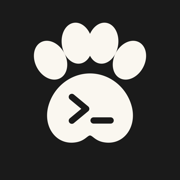
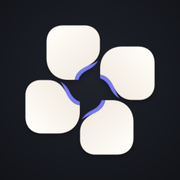
feat: adopt the Step Mosaic brand mark

Changed region(s): [[0.1389, 0.1111, 0.8611, 0.8611]]

diff --git a/test/smoke.test.js b/test/smoke.test.js
@@ -55,17 +55,26 @@ test("service worker keeps local Mermaid offline and never intercepts API or rel
   assert.match(release, /subject-path:/);
 });
 
-test("Stepsemble ships its own cat-paw agent mark", () => {
+test("Stepsemble ships its own equal-participation Step Mosaic", () => {
   const html = fs.readFileSync(path.join(root, "public", "index.html"), "utf8");
   const logo = fs.readFileSync(path.join(root, "public", "stepsemble-logo.svg"), "utf8");
   const appIcon = fs.readFileSync(path.join(root, "public", "stepsemble-app-icon.svg"), "utf8");
+  const icon180 = fs.readFileSync(path.join(root, "public", "icon-180.png"));
+  const icon512 = fs.readFileSync(path.join(root, "public", "icon-512.png"));
   assert.match(html, /class="login-mark brand-mark"/);
   assert.doesNotMatch(html, /official-mark/);
-  assert.match(logo, /four-node cat paw/);
-  assert.match(appIcon, /four-node cat paw/);
-  assert.match(logo, /terminal prompt/);
-  assert.match(logo, /#1A1A1A/);
-  assert.match(logo, /#FAF7F0/);
+  assert.match(logo, /Four equal agent modules/);
+  assert.match(appIcon, /Four equal agent modules/);
+  assert.match(logo, /coordination layer/);
+  assert.match(logo, /#8588FF/);
+  assert.match(logo, /#FFFDF8/);
+  assert.equal((logo.match(/href="#agent-module"/g) || []).length, 4);
+  assert.equal((appIcon.match(/href="#agent-module"/g) || []).length, 4);
+  assert.doesNotMatch(logo, /cat paw|terminal prompt|#FF6B5F/i);
+  assert.deepEqual([icon180.readUInt32BE(16), icon180.readUInt32BE(20)], [180, 180]);
+  assert.deepEqual([icon512.readUInt32BE(16), icon512.readUInt32BE(20)], [512, 512]);
+  assert.equal(icon180[25], 2, "Apple touch artwork should be opaque RGB");
+  assert.equal(icon512[25], 2, "maskable PWA artwork should be opaque RGB");
 });
 
 test("the in-app brand mark follows the active theme colour without a plate", () => {

diff --git a/public/index.html b/public/index.html
@@ -6,10 +6,10 @@
 <title>Stepsemble</title>
 <meta name="theme-color" content="#FAF7F0" media="(prefers-color-scheme: light)">
 <meta name="theme-color" content="#121212" media="(prefers-color-scheme: dark)">
-<link rel="manifest" href="/manifest.webmanifest?v=3.0.0">
-<link rel="icon" href="/stepsemble-logo.svg?v=3.0.0" type="image/svg+xml">
-<link rel="apple-touch-icon" href="/icon-180.png?v=3.0.0">
-<link rel="stylesheet" href="/style.css?v=3.0.0">
+<link rel="manifest" href="/manifest.webmanifest?v=3.0.1">
+<link rel="icon" href="/stepsemble-logo.svg?v=3.0.1" type="image/svg+xml">
+<link rel="apple-touch-icon" href="/icon-180.png?v=3.0.1">
+<link rel="stylesheet" href="/style.css?v=3.0.1">
 </head>
 <body>
 
@@ -406,7 +406,7 @@
         </div>
         <div class="settings-row">
           <span><strong>Stepsemble</strong><small>Mobile-first remote workspace for Pi</small></span>
-          <span class="settings-value" id="set-app-version">v3.0.0</span>
+          <span class="settings-value" id="set-app-version">v3.0.1</span>
         </div>
         <div class="settings-row">
           <span><strong>Pi version</strong><small>Pi coding agent installed on this device</small></span>
@@ -866,10 +866,10 @@
 
 <script src="/vendor/marked.min.js"></script>
 <script src="/vendor/purify.min.js"></script>
-<script src="/i18n.js?v=3.0.0"></script>
-<script src="/modules/app-foundation.js?v=3.0.0"></script>
-<script src="/modules/session-utils.js?v=3.0.0"></script>
-<script src="/modules/context-usage.js?v=3.0.0"></script>
-<script src="/app.js?v=3.0.0"></script>
+<script src="/i18n.js?v=3.0.1"></script>
+<script src="/modules/app-foundation.js?v=3.0.1"></script>
+<script src="/modules/session-utils.js?v=3.0.1"></script>
+<script src="/modules/context-usage.js?v=3.0.1"></script>
+<script src="/app.js?v=3.0.1"></script>
 </body>
 </html>

diff --git a/public/sw.js b/public/sw.js
@@ -1,18 +1,18 @@
-const CACHE_NAME = "stepsemble-shell-v3.0.0";
+const CACHE_NAME = "stepsemble-shell-v3.0.1";
 const SHELL = [
   "/",
   "/index.html",
-  "/style.css?v=3.0.0",
-  "/i18n.js?v=3.0.0",
-  "/modules/app-foundation.js?v=3.0.0",
-  "/modules/session-utils.js?v=3.0.0",
-  "/modules/context-usage.js?v=3.0.0",
-  "/app.js?v=3.0.0",
-  "/manifest.webmanifest?v=3.0.0",
-  "/stepsemble-logo.svg?v=3.0.0",
+  "/style.css?v=3.0.1",
+  "/i18n.js?v=3.0.1",
+  "/modules/app-foundation.js?v=3.0.1",
+  "/modules/session-utils.js?v=3.0.1",
+  "/modules/context-usage.js?v=3.0.1",
+  "/app.js?v=3.0.1",
+  "/manifest.webmanifest?v=3.0.1",
+  "/stepsemble-logo.svg?v=3.0.1",
   "/stepsemble-glyph.svg",
-  "/icon-180.png?v=3.0.0",
-  "/icon-512.png?v=3.0.0",
+  "/icon-180.png?v=3.0.1",
+  "/icon-512.png?v=3.0.1",
   "/vendor/marked.min.js",
   "/vendor/purify.min.js",
   "/vendor/mermaid.min.js",

diff --git a/public/app.js b/public/app.js
@@ -1,7 +1,7 @@
-/* stepsemble v3.0.0 — project changes, resilient drafts, and mobile polish */
+/* stepsemble v3.0.1 — project changes, resilient drafts, and mobile polish */
 "use strict";
 
-const CLIENT_APP_VERSION = "3.0.0";
+const CLIENT_APP_VERSION = "3.0.1";
 
 // The browser remains buildless, but feature-independent foundations live in
 // small files loaded before this controller. This keeps deployment as simple

diff --git a/server.js b/server.js
@@ -56,7 +56,7 @@ const {
 // 配置
 // ---------------------------------------------------------------------------
 
-const APP_VERSION = "3.0.0";
+const APP_VERSION = "3.0.1";
 const PUBLIC_DIR = path.join(__dirname, "public");
 function expandHome(value) {
   if (!value) return value;

diff --git a/public/style.css b/public/style.css
@@ -1,4 +1,4 @@
-/* stepsemble v3.0.0 — Ink & Ivory / English-first localization */
+/* stepsemble v3.0.1 — Ink & Ivory / English-first localization */
 
 :root {
   --paper: #FAF7F0;

diff --git a/CHANGELOG.md b/CHANGELOG.md
@@ -1,5 +1,14 @@
 # Changelog
 
+## 3.0.1
+
+- Replaced the literal cat-paw-and-terminal mark with a vendor-neutral Step
+  Mosaic: four equal agent modules move in one rhythm, and each reveals the
+  same violet Stepsemble coordination layer.
+- Added matched full-colour app, rounded logo, monochrome mask, Apple touch,
+  and maskable PWA artwork without assigning any provider a privileged brand
+  colour.
+
 ## 3.0.0
 
 - Renamed Pi Harbor to Stepsemble, with a new cat-paw-and-terminal identity

diff --git a/README.md b/README.md
@@ -1,5 +1,5 @@
 <p align="center">
-  <img src="public/stepsemble-logo.svg" width="112" height="112" alt="Stepsemble paw logo">
+  <img src="public/stepsemble-logo.svg" width="112" height="112" alt="Stepsemble four-module logo">
 </p>
 
 <h1 align="center">Stepsemble</h1>
